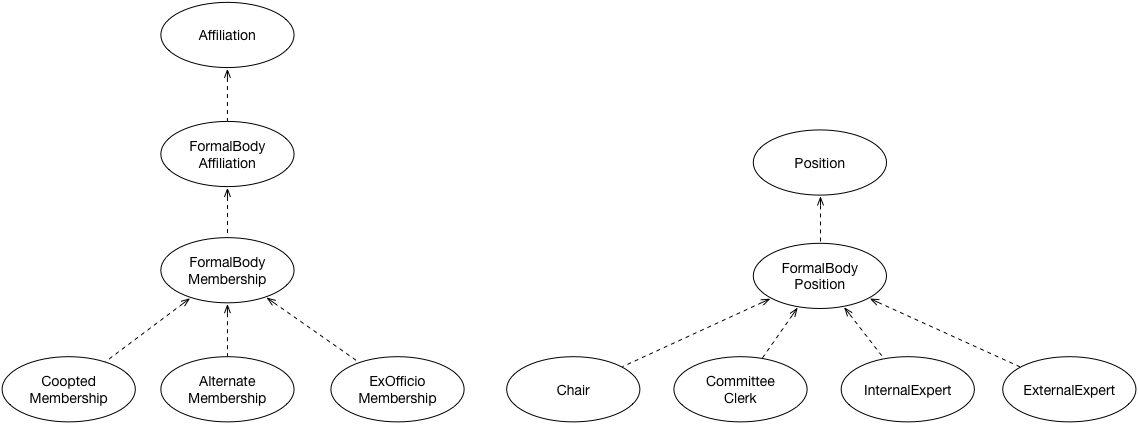
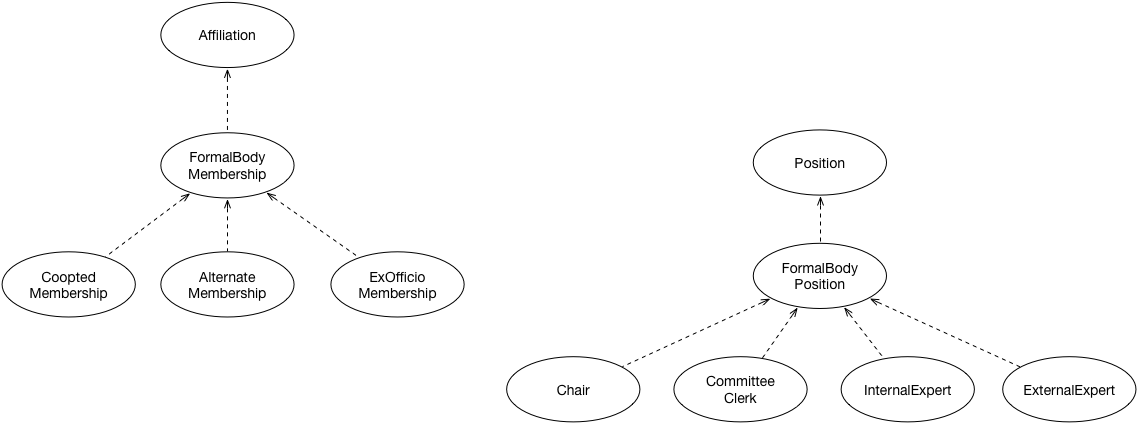
simplified subclassing

diff --git a/formal-body-affiliation/formal-body-affiliation-ontology.html b/formal-body-affiliation/formal-body-affiliation-ontology.html
@@ -30,10 +30,6 @@
 
 
 
-
-
-
-
-<div id="classes"><h2>Classes</h2><ul class="hlist"><li><a href="#d4e22" title="http://parliament.uk/ontologies/formal-body-affiliation/Affiliation">Affiliation</a></li><li><a href="#d4e34" title="http://parliament.uk/ontologies/formal-body-affiliation/AlternateMembership">AlternateMembership</a></li><li><a href="#d4e47" title="http://parliament.uk/ontologies/formal-body-affiliation/Chair">Chair</a></li><li><a href="#d4e60" title="http://parliament.uk/ontologies/formal-body-affiliation/CommitteeClerk">CommitteeClerk</a></li><li><a href="#d4e74" title="http://parliament.uk/ontologies/formal-body-affiliation/CooptedMembership">CooptedMembership</a></li><li><a href="#d4e87" title="http://parliament.uk/ontologies/formal-body-affiliation/ExOfficioMembership">ExOfficioMembership</a></li><li><a href="#d4e100" title="http://parliament.uk/ontologies/formal-body-affiliation/ExternalExpert">ExternalExpert</a></li><li><a href="#d4e114" title="http://parliament.uk/ontologies/formal-body-affiliation/FormalBodyAffiliation">FormalBodyAffiliation</a></li><li><a href="#d4e127" title="http://parliament.uk/ontologies/formal-body-affiliation/FormalBodyPosition">FormalBodyPosition</a></li><li><a href="#d4e140" title="http://parliament.uk/ontologies/formal-body-affiliation/InternalExpert">InternalExpert</a></li><li><a href="#d4e154" title="http://parliament.uk/ontologies/formal-body-affiliation/Position">Position</a></li></ul><div id="d4e22" class="entity"><a name="http://parliament.uk/ontologies/formal-body-affiliation/Affiliation"></a><h3>Affiliation<sup title="class" class="type-c">c</sup><span class="backlink"> back to <a href="#toc">ToC</a> or <a href="#classes">Class ToC</a></span></h3><p><strong>IRI:</strong> http://parliament.uk/ontologies/formal-body-affiliation/Affiliation</p><div class="comment"><span class="markdown">A person or group's affiliation to a group between between two dates. Might be a membership of a committee or a whipping to a party.</span></div><dl class="description"><dt>has sub-classes</dt><dd><a href="#d4e114" title="http://parliament.uk/ontologies/formal-body-affiliation/FormalBodyAffiliation">FormalBodyAffiliation</a><sup title="class" class="type-c">c</sup></dd></dl></div><div id="d4e34" class="entity"><a name="http://parliament.uk/ontologies/formal-body-affiliation/AlternateMembership"></a><h3>AlternateMembership<sup title="class" class="type-c">c</sup><span class="backlink"> back to <a href="#toc">ToC</a> or <a href="#classes">Class ToC</a></span></h3><p><strong>IRI:</strong> http://parliament.uk/ontologies/formal-body-affiliation/AlternateMembership</p><div class="comment"><span class="markdown">Alternate members act as substitutes when other members can't attend e.g. the Lords Procedure Committee is supplemented by one alternate for each party group of backbench members and one for the Crossbenchers, plus an alternate for the Convenor. They receive papers and if any of the relevant members cannot attend, alternate members are entitled to attend and vote.</span></div><dl class="description"><dt>has super-classes</dt><dd><a href="#d4e114" title="http://parliament.uk/ontologies/formal-body-affiliation/FormalBodyAffiliation">FormalBodyAffiliation</a><sup title="class" class="type-c">c</sup></dd></dl></div><div id="d4e47" class="entity"><a name="http://parliament.uk/ontologies/formal-body-affiliation/Chair"></a><h3>Chair<sup title="class" class="type-c">c</sup><span class="backlink"> back to <a href="#toc">ToC</a> or <a href="#classes">Class ToC</a></span></h3><p><strong>IRI:</strong> http://parliament.uk/ontologies/formal-body-affiliation/Chair</p><div class="comment"><span class="markdown">Used to describe the chair of a formal body.</span></div><dl class="description"><dt>has super-classes</dt><dd><a href="#d4e127" title="http://parliament.uk/ontologies/formal-body-affiliation/FormalBodyPosition">FormalBodyPosition</a><sup title="class" class="type-c">c</sup></dd></dl></div><div id="d4e60" class="entity"><a name="http://parliament.uk/ontologies/formal-body-affiliation/CommitteeClerk"></a><h3>CommitteeClerk<sup title="class" class="type-c">c</sup><span class="backlink"> back to <a href="#toc">ToC</a> or <a href="#classes">Class ToC</a></span></h3><p><strong>IRI:</strong> http://parliament.uk/ontologies/formal-body-affiliation/CommitteeClerk</p><div class="comment"><span class="markdown">Used to describe the principal clerk of a formal body.</span></div><dl class="description"><dt>has super-classes</dt><dd><a href="#d4e127" title="http://parliament.uk/ontologies/formal-body-affiliation/FormalBodyPosition">FormalBodyPosition</a><sup title="class" class="type-c">c</sup></dd></dl></div><div id="d4e74" class="entity"><a name="http://parliament.uk/ontologies/formal-body-affiliation/CooptedMembership"></a><h3>CooptedMembership<sup title="class" class="type-c">c</sup><span class="backlink"> back to <a href="#toc">ToC</a> or <a href="#classes">Class ToC</a></span></h3><p><strong>IRI:</strong> http://parliament.uk/ontologies/formal-body-affiliation/CooptedMembership</p><div class="comment"><span class="markdown">A member of a committee who is invited to join on occasion. Co-opted members might be drawn from people who are not Members of either House. These are referred to as lay members in the House of Commons and external members in the House of Lords e.g. the Executive Committee will occasionally co-opt the Director of the Parliamentary Digital Service and / or Parliamentary Security Director into its membership. Sometimes a co-opted member will be drawn from the membership of a House e.g. in the House of Lords a peer who is a subject matter expert might be co-opted onto a committee.</span></div><dl class="description"><dt>has super-classes</dt><dd><a href="#d4e114" title="http://parliament.uk/ontologies/formal-body-affiliation/FormalBodyAffiliation">FormalBodyAffiliation</a><sup title="class" class="type-c">c</sup></dd></dl></div><div id="d4e87" class="entity"><a name="http://parliament.uk/ontologies/formal-body-affiliation/ExOfficioMembership"></a><h3>ExOfficioMembership<sup title="class" class="type-c">c</sup><span class="backlink"> back to <a href="#toc">ToC</a> or <a href="#classes">Class ToC</a></span></h3><p><strong>IRI:</strong> http://parliament.uk/ontologies/formal-body-affiliation/ExOfficioMembership</p><div class="comment"><span class="markdown">Ex-officios are members appointed by virtue of roles or positions, by convention. Some Ministers are appointed ex-officio members of committees. Examples include Government and Opposition Whips regularly serving on the Administration Committee; specific government Ministers being members of (but by convention not attending meetings of) the Committee of Public Accounts and the Environmental Audit Committee; and successive Leaders of the House chairing the Select Committee on Modernisation of the House of Commons between 1997 and 2010.</span></div><dl class="description"><dt>has super-classes</dt><dd><a href="#d4e114" title="http://parliament.uk/ontologies/formal-body-affiliation/FormalBodyAffiliation">FormalBodyAffiliation</a><sup title="class" class="type-c">c</sup></dd></dl></div><div id="d4e100" class="entity"><a name="http://parliament.uk/ontologies/formal-body-affiliation/ExternalExpert"></a><h3>ExternalExpert<sup title="class" class="type-c">c</sup><span class="backlink"> back to <a href="#toc">ToC</a> or <a href="#classes">Class ToC</a></span></h3><p><strong>IRI:</strong> http://parliament.uk/ontologies/formal-body-affiliation/ExternalExpert</p><div class="comment"><span class="markdown">Formal bodies can contract subject matter experts for the duration of an inquiry.</span></div><dl class="description"><dt>has super-classes</dt><dd><a href="#d4e127" title="http://parliament.uk/ontologies/formal-body-affiliation/FormalBodyPosition">FormalBodyPosition</a><sup title="class" class="type-c">c</sup></dd></dl></div><div id="d4e114" class="entity"><a name="http://parliament.uk/ontologies/formal-body-affiliation/FormalBodyAffiliation"></a><h3>FormalBodyAffiliation<sup title="class" class="type-c">c</sup><span class="backlink"> back to <a href="#toc">ToC</a> or <a href="#classes">Class ToC</a></span></h3><p><strong>IRI:</strong> http://parliament.uk/ontologies/formal-body-affiliation/FormalBodyAffiliation</p><div class="comment"><span class="markdown">Specialises affiliations to formal bodies (committee-like groups). In most cases membership is drawn from the backbenches of either House. Occasionally people who are subject area experts but not Members of either House will appointed as members of a committee. Usually membership will be assigned by one of the two Houses. Co-opted members are appointed by the existing members of a committee.</span></div><dl class="description"><dt>has super-classes</dt><dd><a href="#d4e22" title="http://parliament.uk/ontologies/formal-body-affiliation/Affiliation">Affiliation</a><sup title="class" class="type-c">c</sup></dd><dt>has sub-classes</dt><dd><a href="#d4e34" title="http://parliament.uk/ontologies/formal-body-affiliation/AlternateMembership">AlternateMembership</a><sup title="class" class="type-c">c</sup>, <a href="#d4e74" title="http://parliament.uk/ontologies/formal-body-affiliation/CooptedMembership">CooptedMembership</a><sup title="class" class="type-c">c</sup>, <a href="#d4e87" title="http://parliament.uk/ontologies/formal-body-affiliation/ExOfficioMembership">ExOfficioMembership</a><sup title="class" class="type-c">c</sup></dd></dl></div><div id="d4e127" class="entity"><a name="http://parliament.uk/ontologies/formal-body-affiliation/FormalBodyPosition"></a><h3>FormalBodyPosition<sup title="class" class="type-c">c</sup><span class="backlink"> back to <a href="#toc">ToC</a> or <a href="#classes">Class ToC</a></span></h3><p><strong>IRI:</strong> http://parliament.uk/ontologies/formal-body-affiliation/FormalBodyPosition</p><div class="comment"><span class="markdown">Specialises positions to formal bodies.</span></div><dl class="description"><dt>has super-classes</dt><dd><a href="#d4e154" title="http://parliament.uk/ontologies/formal-body-affiliation/Position">Position</a><sup title="class" class="type-c">c</sup></dd><dt>has sub-classes</dt><dd><a href="#d4e47" title="http://parliament.uk/ontologies/formal-body-affiliation/Chair">Chair</a><sup title="class" class="type-c">c</sup>, <a href="#d4e60" title="http://parliament.uk/ontologies/formal-body-affiliation/CommitteeClerk">CommitteeClerk</a><sup title="class" class="type-c">c</sup>, <a href="#d4e100" title="http://parliament.uk/ontologies/formal-body-affiliation/ExternalExpert">ExternalExpert</a><sup title="class" class="type-c">c</sup>, <a href="#d4e140" title="http://parliament.uk/ontologies/formal-body-affiliation/InternalExpert">InternalExpert</a><sup title="class" class="type-c">c</sup></dd></dl></div><div id="d4e140" class="entity"><a name="http://parliament.uk/ontologies/formal-body-affiliation/InternalExpert"></a><h3>InternalExpert<sup title="class" class="type-c">c</sup><span class="backlink"> back to <a href="#toc">ToC</a> or <a href="#classes">Class ToC</a></span></h3><p><strong>IRI:</strong> http://parliament.uk/ontologies/formal-body-affiliation/InternalExpert</p><div class="comment"><span class="markdown">Formal bodies often appoint subject matter experts. The role is normally described as committee specialist within Parliament.</span></div><dl class="description"><dt>has super-classes</dt><dd><a href="#d4e127" title="http://parliament.uk/ontologies/formal-body-affiliation/FormalBodyPosition">FormalBodyPosition</a><sup title="class" class="type-c">c</sup></dd></dl></div><div id="d4e154" class="entity"><a name="http://parliament.uk/ontologies/formal-body-affiliation/Position"></a><h3>Position<sup title="class" class="type-c">c</sup><span class="backlink"> back to <a href="#toc">ToC</a> or <a href="#classes">Class ToC</a></span></h3><p><strong>IRI:</strong> http://parliament.uk/ontologies/formal-body-affiliation/Position</p><div class="comment"><span class="markdown">A position in a group that persists over time which can be occupied by different people at different times e.g. many people have been Foreign Secretary.</span></div><dl class="description"><dt>has sub-classes</dt><dd><a href="#d4e127" title="http://parliament.uk/ontologies/formal-body-affiliation/FormalBodyPosition">FormalBodyPosition</a><sup title="class" class="type-c">c</sup></dd></dl></div></div><div id="namespacedeclarations"><h2>Namespace Declarations <span class="backlink"> back to <a href="#toc">ToC</a></span></h2><dl><dt><em>default namespace</em></dt><dd>http://parliament.uk/ontologies/formal-body-affiliation/</dd><dt>owl</dt><dd>http://www.w3.org/2002/07/owl#</dd><dt>rdf</dt><dd>http://www.w3.org/1999/02/22-rdf-syntax-ns#</dd><dt>rdfs</dt><dd>http://www.w3.org/2000/01/rdf-schema#</dd><dt>terms</dt><dd>http://purl.org/dc/terms/</dd><dt>xsd</dt><dd>http://www.w3.org/2001/XMLSchema#</dd></dl></div><p class="endnote">This HTML document was obtained by processing the OWL ontology source code through <a href="http://www.essepuntato.it/lode">LODE</a>, <em>Live OWL Documentation Environment</em>, developed by <a href="http://www.essepuntato.it">Silvio Peroni</a>.</p></body></html>
+<div id="classes"><h2>Classes</h2><ul class="hlist"><li><a href="#d4e22" title="http://parliament.uk/ontologies/formal-body-affiliation/Affiliation">Affiliation</a></li><li><a href="#d4e34" title="http://parliament.uk/ontologies/formal-body-affiliation/AlternateMembership">AlternateMembership</a></li><li><a href="#d4e47" title="http://parliament.uk/ontologies/formal-body-affiliation/Chair">Chair</a></li><li><a href="#d4e60" title="http://parliament.uk/ontologies/formal-body-affiliation/CommitteeClerk">CommitteeClerk</a></li><li><a href="#d4e74" title="http://parliament.uk/ontologies/formal-body-affiliation/CooptedMembership">CooptedMembership</a></li><li><a href="#d4e87" title="http://parliament.uk/ontologies/formal-body-affiliation/ExOfficioMembership">ExOfficioMembership</a></li><li><a href="#d4e100" title="http://parliament.uk/ontologies/formal-body-affiliation/ExternalExpert">ExternalExpert</a></li><li><a href="#d4e114" title="http://parliament.uk/ontologies/formal-body-affiliation/FormalBodyMembership">FormalBodyMembership</a></li><li><a href="#d4e127" title="http://parliament.uk/ontologies/formal-body-affiliation/FormalBodyPosition">FormalBodyPosition</a></li><li><a href="#d4e140" title="http://parliament.uk/ontologies/formal-body-affiliation/InternalExpert">InternalExpert</a></li><li><a href="#d4e154" title="http://parliament.uk/ontologies/formal-body-affiliation/Position">Position</a></li></ul><div id="d4e22" class="entity"><a name="http://parliament.uk/ontologies/formal-body-affiliation/Affiliation"></a><h3>Affiliation<sup title="class" class="type-c">c</sup><span class="backlink"> back to <a href="#toc">ToC</a> or <a href="#classes">Class ToC</a></span></h3><p><strong>IRI:</strong> http://parliament.uk/ontologies/formal-body-affiliation/Affiliation</p><div class="comment"><span class="markdown">A person or group's affiliation to a group between between two dates. Might be a membership of a committee or a whipping to a party.</span></div><dl class="description"><dt>has sub-classes</dt><dd><a href="#d4e114" title="http://parliament.uk/ontologies/formal-body-affiliation/FormalBodyMembership">FormalBodyMembership</a><sup title="class" class="type-c">c</sup></dd></dl></div><div id="d4e34" class="entity"><a name="http://parliament.uk/ontologies/formal-body-affiliation/AlternateMembership"></a><h3>AlternateMembership<sup title="class" class="type-c">c</sup><span class="backlink"> back to <a href="#toc">ToC</a> or <a href="#classes">Class ToC</a></span></h3><p><strong>IRI:</strong> http://parliament.uk/ontologies/formal-body-affiliation/AlternateMembership</p><div class="comment"><span class="markdown">Alternate members act as substitutes when other members can't attend e.g. the Lords Procedure Committee is supplemented by one alternate for each party group of backbench members and one for the Crossbenchers, plus an alternate for the Convenor. They receive papers and if any of the relevant members cannot attend, alternate members are entitled to attend and vote.</span></div><dl class="description"><dt>has super-classes</dt><dd><a href="#d4e114" title="http://parliament.uk/ontologies/formal-body-affiliation/FormalBodyMembership">FormalBodyMembership</a><sup title="class" class="type-c">c</sup></dd></dl></div><div id="d4e47" class="entity"><a name="http://parliament.uk/ontologies/formal-body-affiliation/Chair"></a><h3>Chair<sup title="class" class="type-c">c</sup><span class="backlink"> back to <a href="#toc">ToC</a> or <a href="#classes">Class ToC</a></span></h3><p><strong>IRI:</strong> http://parliament.uk/ontologies/formal-body-affiliation/Chair</p><div class="comment"><span class="markdown">Used to describe the chair of a formal body.</span></div><dl class="description"><dt>has super-classes</dt><dd><a href="#d4e127" title="http://parliament.uk/ontologies/formal-body-affiliation/FormalBodyPosition">FormalBodyPosition</a><sup title="class" class="type-c">c</sup></dd></dl></div><div id="d4e60" class="entity"><a name="http://parliament.uk/ontologies/formal-body-affiliation/CommitteeClerk"></a><h3>CommitteeClerk<sup title="class" class="type-c">c</sup><span class="backlink"> back to <a href="#toc">ToC</a> or <a href="#classes">Class ToC</a></span></h3><p><strong>IRI:</strong> http://parliament.uk/ontologies/formal-body-affiliation/CommitteeClerk</p><div class="comment"><span class="markdown">Used to describe the principal clerk of a formal body.</span></div><dl class="description"><dt>has super-classes</dt><dd><a href="#d4e127" title="http://parliament.uk/ontologies/formal-body-affiliation/FormalBodyPosition">FormalBodyPosition</a><sup title="class" class="type-c">c</sup></dd></dl></div><div id="d4e74" class="entity"><a name="http://parliament.uk/ontologies/formal-body-affiliation/CooptedMembership"></a><h3>CooptedMembership<sup title="class" class="type-c">c</sup><span class="backlink"> back to <a href="#toc">ToC</a> or <a href="#classes">Class ToC</a></span></h3><p><strong>IRI:</strong> http://parliament.uk/ontologies/formal-body-affiliation/CooptedMembership</p><div class="comment"><span class="markdown">A member of a committee who is invited to join on occasion. Co-opted members might be drawn from people who are not Members of either House. These are referred to as lay members in the House of Commons and external members in the House of Lords e.g. the Executive Committee will occasionally co-opt the Director of the Parliamentary Digital Service and / or Parliamentary Security Director into its membership. Sometimes a co-opted member will be drawn from the membership of a House e.g. in the House of Lords a peer who is a subject matter expert might be co-opted onto a committee.</span></div><dl class="description"><dt>has super-classes</dt><dd><a href="#d4e114" title="http://parliament.uk/ontologies/formal-body-affiliation/FormalBodyMembership">FormalBodyMembership</a><sup title="class" class="type-c">c</sup></dd></dl></div><div id="d4e87" class="entity"><a name="http://parliament.uk/ontologies/formal-body-affiliation/ExOfficioMembership"></a><h3>ExOfficioMembership<sup title="class" class="type-c">c</sup><span class="backlink"> back to <a href="#toc">ToC</a> or <a href="#classes">Class ToC</a></span></h3><p><strong>IRI:</strong> http://parliament.uk/ontologies/formal-body-affiliation/ExOfficioMembership</p><div class="comment"><span class="markdown">Ex-officios are members appointed by virtue of roles or positions, by convention. Some Ministers are appointed ex-officio members of committees. Examples include Government and Opposition Whips regularly serving on the Administration Committee; specific government Ministers being members of (but by convention not attending meetings of) the Committee of Public Accounts and the Environmental Audit Committee; and successive Leaders of the House chairing the Select Committee on Modernisation of the House of Commons between 1997 and 2010.</span></div><dl class="description"><dt>has super-classes</dt><dd><a href="#d4e114" title="http://parliament.uk/ontologies/formal-body-affiliation/FormalBodyMembership">FormalBodyMembership</a><sup title="class" class="type-c">c</sup></dd></dl></div><div id="d4e100" class="entity"><a name="http://parliament.uk/ontologies/formal-body-affiliation/ExternalExpert"></a><h3>ExternalExpert<sup title="class" class="type-c">c</sup><span class="backlink"> back to <a href="#toc">ToC</a> or <a href="#classes">Class ToC</a></span></h3><p><strong>IRI:</strong> http://parliament.uk/ontologies/formal-body-affiliation/ExternalExpert</p><div class="comment"><span class="markdown">Formal bodies can contract subject matter experts for the duration of an inquiry.</span></div><dl class="description"><dt>has super-classes</dt><dd><a href="#d4e127" title="http://parliament.uk/ontologies/formal-body-affiliation/FormalBodyPosition">FormalBodyPosition</a><sup title="class" class="type-c">c</sup></dd></dl></div><div id="d4e114" class="entity"><a name="http://parliament.uk/ontologies/formal-body-affiliation/FormalBodyMembership"></a><h3>FormalBodyMembership<sup title="class" class="type-c">c</sup><span class="backlink"> back to <a href="#toc">ToC</a> or <a href="#classes">Class ToC</a></span></h3><p><strong>IRI:</strong> http://parliament.uk/ontologies/formal-body-affiliation/FormalBodyMembership</p><div class="comment"><span class="markdown">Specialises affiliations to memberships of formal bodies (committee-like groups). In most cases membership is drawn from the backbenches of either House. Occasionally people who are subject area experts but not Members of either House will appointed as members of a committee. Usually membership will be assigned by one of the two Houses. Co-opted members are appointed by the existing members of a committee.</span></div><dl class="description"><dt>has super-classes</dt><dd><a href="#d4e22" title="http://parliament.uk/ontologies/formal-body-affiliation/Affiliation">Affiliation</a><sup title="class" class="type-c">c</sup></dd><dt>has sub-classes</dt><dd><a href="#d4e34" title="http://parliament.uk/ontologies/formal-body-affiliation/AlternateMembership">AlternateMembership</a><sup title="class" class="type-c">c</sup>, <a href="#d4e74" title="http://parliament.uk/ontologies/formal-body-affiliation/CooptedMembership">CooptedMembership</a><sup title="class" class="type-c">c</sup>, <a href="#d4e87" title="http://parliament.uk/ontologies/formal-body-affiliation/ExOfficioMembership">ExOfficioMembership</a><sup title="class" class="type-c">c</sup></dd></dl></div><div id="d4e127" class="entity"><a name="http://parliament.uk/ontologies/formal-body-affiliation/FormalBodyPosition"></a><h3>FormalBodyPosition<sup title="class" class="type-c">c</sup><span class="backlink"> back to <a href="#toc">ToC</a> or <a href="#classes">Class ToC</a></span></h3><p><strong>IRI:</strong> http://parliament.uk/ontologies/formal-body-affiliation/FormalBodyPosition</p><div class="comment"><span class="markdown">Specialises positions to formal bodies.</span></div><dl class="description"><dt>has super-classes</dt><dd><a href="#d4e154" title="http://parliament.uk/ontologies/formal-body-affiliation/Position">Position</a><sup title="class" class="type-c">c</sup></dd><dt>has sub-classes</dt><dd><a href="#d4e47" title="http://parliament.uk/ontologies/formal-body-affiliation/Chair">Chair</a><sup title="class" class="type-c">c</sup>, <a href="#d4e60" title="http://parliament.uk/ontologies/formal-body-affiliation/CommitteeClerk">CommitteeClerk</a><sup title="class" class="type-c">c</sup>, <a href="#d4e100" title="http://parliament.uk/ontologies/formal-body-affiliation/ExternalExpert">ExternalExpert</a><sup title="class" class="type-c">c</sup>, <a href="#d4e140" title="http://parliament.uk/ontologies/formal-body-affiliation/InternalExpert">InternalExpert</a><sup title="class" class="type-c">c</sup></dd></dl></div><div id="d4e140" class="entity"><a name="http://parliament.uk/ontologies/formal-body-affiliation/InternalExpert"></a><h3>InternalExpert<sup title="class" class="type-c">c</sup><span class="backlink"> back to <a href="#toc">ToC</a> or <a href="#classes">Class ToC</a></span></h3><p><strong>IRI:</strong> http://parliament.uk/ontologies/formal-body-affiliation/InternalExpert</p><div class="comment"><span class="markdown">Formal bodies often appoint subject matter experts. The role is normally described as committee specialist within Parliament.</span></div><dl class="description"><dt>has super-classes</dt><dd><a href="#d4e127" title="http://parliament.uk/ontologies/formal-body-affiliation/FormalBodyPosition">FormalBodyPosition</a><sup title="class" class="type-c">c</sup></dd></dl></div><div id="d4e154" class="entity"><a name="http://parliament.uk/ontologies/formal-body-affiliation/Position"></a><h3>Position<sup title="class" class="type-c">c</sup><span class="backlink"> back to <a href="#toc">ToC</a> or <a href="#classes">Class ToC</a></span></h3><p><strong>IRI:</strong> http://parliament.uk/ontologies/formal-body-affiliation/Position</p><div class="comment"><span class="markdown">A position in a group that persists over time which can be occupied by different people at different times e.g. many people have been Foreign Secretary.</span></div><dl class="description"><dt>has sub-classes</dt><dd><a href="#d4e127" title="http://parliament.uk/ontologies/formal-body-affiliation/FormalBodyPosition">FormalBodyPosition</a><sup title="class" class="type-c">c</sup></dd></dl></div></div><div id="namespacedeclarations"><h2>Namespace Declarations <span class="backlink"> back to <a href="#toc">ToC</a></span></h2><dl><dt><em>default namespace</em></dt><dd>http://parliament.uk/ontologies/formal-body-affiliation/</dd><dt>owl</dt><dd>http://www.w3.org/2002/07/owl#</dd><dt>rdf</dt><dd>http://www.w3.org/1999/02/22-rdf-syntax-ns#</dd><dt>rdfs</dt><dd>http://www.w3.org/2000/01/rdf-schema#</dd><dt>terms</dt><dd>http://purl.org/dc/terms/</dd><dt>xsd</dt><dd>http://www.w3.org/2001/XMLSchema#</dd></dl></div><p class="endnote">This HTML document was obtained by processing the OWL ontology source code through <a href="http://www.essepuntato.it/lode">LODE</a>, <em>Live OWL Documentation Environment</em>, developed by <a href="http://www.essepuntato.it">Silvio Peroni</a>.</p></body></html>
 
 
